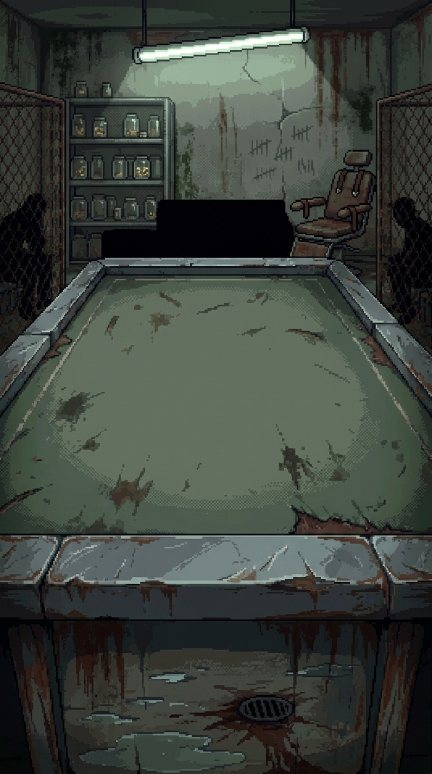
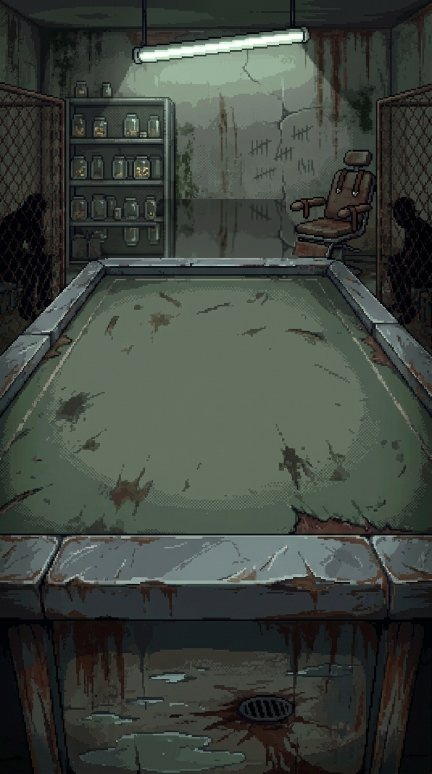
Dirty Deal: dealers stand behind the table in every arena and mood, cellar wall repaint, full-width app, blurred letterbox, fade transitions
Claude-Session: https://claude.ai/code/session_01KMoF4bVcjiTSZnB8k8vwUa

Changed region(s): [[0.2106, 0.2481, 0.6921, 0.3411]]

diff --git a/dirtydeal/index.html b/dirtydeal/index.html
@@ -33,8 +33,10 @@ body{margin:0;-webkit-text-size-adjust:100%;overscroll-behavior:none;position:fi
 html,body{height:100%}
 body{background:var(--ink);color:var(--paper);font-family:var(--body);overflow:hidden;user-select:none;-webkit-user-select:none;-webkit-tap-highlight-color:transparent}
 img{image-rendering:pixelated;-webkit-user-drag:none;pointer-events:none}
-.wrap{height:100%;display:grid;place-items:center;padding-block:8px;padding-left:max(16px,env(safe-area-inset-left,0px));padding-right:max(16px,env(safe-area-inset-right,0px))}
-.stage{position:relative;height:100%;max-height:calc((100vw - 32px)*1376/768);aspect-ratio:768/1376;max-width:100%;container-type:size;overflow:hidden;
+body::before{content:"";position:fixed;inset:-60px;z-index:-1;background:var(--bgimg,none) center/cover no-repeat;filter:blur(22px) brightness(.3) saturate(.75);transition:background-image .4s}
+#fade{position:absolute;inset:0;z-index:58;background:#000;pointer-events:none;opacity:0}
+.wrap{height:100%;display:grid;place-items:center;padding:0 env(safe-area-inset-right,0px) 0 env(safe-area-inset-left,0px)}
+.stage{position:relative;height:100%;max-height:calc(100vw*1376/768);aspect-ratio:768/1376;max-width:100%;container-type:size;overflow:hidden;
   background:#0d0b09;image-rendering:pixelated;--tilt:38deg;--r1w:18%;--r1t:35%;--r1a:20.8%;--r1b:41%;--r1c:61.2%;--r0w:21.5%;--r0t:47.5%;--r0a:13.9%;--r0b:39.25%;--r0c:64.6%}
 #bg{position:absolute;z-index:0;left:0;width:100%;top:0;height:100%;background:url(assets/table.jpg) center/100% 100% no-repeat}
 #bg::after{content:"";position:absolute;left:0;right:0;top:100%;height:12%;background:linear-gradient(#0d0b09,#0d0b09)}
@@ -454,7 +456,7 @@ button{font-family:var(--display);cursor:pointer;background:none;border:0;paddin
 .b img{width:4.6cqw}
 .b.y{background:#f0b92c;color:#2a1d00;text-shadow:none}.b.g{background:#4f9a32}.b.r{background:#b8321f}.b.p{background:#7c4fb0}
 .b:disabled{filter:grayscale(.85) brightness(.55);cursor:default}
-.loot{display:grid;grid-template-columns:repeat(4,minmax(0,1fr));gap:3cqw;margin:3cqw 0}
+.loot{display:flex;flex-wrap:wrap;justify-content:center;gap:3cqw;margin:3cqw 0}.loot>div{width:calc(25% - 2.25cqw)}
 .loot>div{position:relative;opacity:0;animation:lootin .45s cubic-bezier(.2,1.4,.4,1) forwards}
 .loot .q{position:absolute;right:-4%;bottom:-4%;font-family:var(--display);font-weight:700;font-size:3.4cqw;color:#fff;background:#3c7a24;border:2px solid #000;padding:0 1cqw}
 @keyframes lootin{from{opacity:0;transform:translateY(30%) scale(.5)}to{opacity:1;transform:none}}
@@ -542,7 +544,7 @@ button{font-family:var(--display);cursor:pointer;background:none;border:0;paddin
 </head>
 <body>
 <div class="wrap">
-<div class="stage a1" id="stage">
+<div class="stage a1" id="stage"><div id="fade"></div>
   <div id="bg"><div id="amb"></div></div>
   <div id="lowhp"></div>
   <img class="abs" id="eicon" src="assets/u_skull.png" alt="">
@@ -698,8 +700,11 @@ let infoT=null;function setInfo(html,quiet){$('infotext').innerHTML=html;if(quie
 /* dealer moods: 0 idle, 1 laugh, 2 angry, 3 shocked */
 let moodT=null;
 let DPRE='dealer';
-function mood(m,ms){const el=$('dealer');el.src=`assets/${DPRE}${m}.png`;el.classList.add('bump');setTimeout(()=>el.classList.remove('bump'),200);
-  clearTimeout(moodT);if(ms)moodT=setTimeout(()=>{el.src=`assets/${DPRE}0.png`},ms)}
+/* some mood sprites were drawn closer to the camera: scale/shift them so the body always ends behind the far rail */
+const DFIX={dealer1:[.78,-12],dealer2:[.8,-12],dealer3:[.77,-12]};
+function dealerImg(m){const el=$('dealer'),k=DPRE+m,f=DFIX[k];el.src=`assets/${k}.png`;el.style.scale=f?String(f[0]):'';el.style.translate=f?`0 ${f[1]}%`:''}
+function mood(m,ms){const el=$('dealer');dealerImg(m);el.classList.add('bump');setTimeout(()=>el.classList.remove('bump'),200);
+  clearTimeout(moodT);if(ms)moodT=setTimeout(()=>dealerImg(0),ms)}
 
 /* smoke puffs */
 document.querySelectorAll('.smoke').forEach(e=>{for(let i=0;i<8;i++){const p=document.createElement('span');const d=3.2+Math.random()*1.6;
@@ -711,17 +716,19 @@ try{const s=JSON.parse(localStorage.getItem('dd-deck')||'null');if(Array.isArray
 if(!deck.length)deck=['gremlin','fingers','ratking','sandwich','grandma','toilet'];
 function mk(id,side){const d=C[id],l=d.token?1:side===0?P.cards[id].l:(S&&S.elvl)||1,st=statsFor(id,l);const o={uid:++uid,id,side,lvl:l,atk:st.atk,hp:st.hp,poison:0,stuck:0,fresh:true,hidden:true};if(side===1&&S&&S.arena===3&&!d.spell)o.hp+=1;return o}
 
-$('again').onclick=()=>{$('endScreen').hidden=true;newMatch()};
-$('edit').onclick=()=>{$('endScreen').hidden=true;openMenu(2)};
+async function fadeTo(fn){const f=$('fade');await f.animate([{opacity:0},{opacity:1}],{duration:170,fill:'forwards'}).finished.catch(()=>{});fn();await sleepRaw(60);f.animate([{opacity:1},{opacity:0}],{duration:280,fill:'forwards'})}
+const sleepRaw=ms=>new Promise(r=>setTimeout(r,ms));
+$('again').onclick=()=>fadeTo(()=>{$('endScreen').hidden=true;newMatch()});
+$('edit').onclick=()=>fadeTo(()=>{$('endScreen').hidden=true;openMenu(2)});
 
 /* ---------- profile ---------- */
 const ARENAS=[
  {t:0,n:'THE BACK ROOM',who:'The Dealer',pre:'dealer',bg:'table.jpg',tw:'',g:{tilt:38,shift:0,r1w:18,r1t:35,r1:[20.8,41,61.2],r0w:21.5,r0t:47.5,r0:[13.9,39.25,64.6],dt:12.6,dh:23.8,gl:[22.1,13.8]}},
- {t:100,n:'THE DRAIN',who:'The Croc',pre:'d2_',bg:'table2.jpg',tw:'Poison lasts 1 turn longer down here.',g:{tilt:38,shift:0,r1w:18,r1t:35,r1:[20.8,41,61.2],r0w:21.5,r0t:47.5,r0:[13.9,39.25,64.6],dt:12.4,dh:23.8,gl:[14,24]}},
- {t:250,n:'THE DEBT CELLAR',who:'The Collector',pre:'d3_',bg:'table3.jpg',tw:'The light shorts out: a random card may take 3.',g:{tilt:38,shift:0,r1w:18,r1t:35,r1:[20.8,41,61.2],r0w:21.5,r0t:47.5,r0:[13.9,39.25,64.6],dt:11.6,dh:24.6,gl:[50,8]}},
+ {t:100,n:'THE DRAIN',who:'The Croc',pre:'d2_',bg:'table2.jpg',tw:'Poison lasts 1 turn longer down here.',g:{tilt:38,shift:0,r1w:18,r1t:35,r1:[20.8,41,61.2],r0w:21.5,r0t:47.5,r0:[13.9,39.25,64.6],dt:9.5,dh:23.8,gl:[14,24]}},
+ {t:250,n:'THE DEBT CELLAR',who:'The Collector',pre:'d3_',bg:'table3.jpg',tw:'The light shorts out: a random card may take 3.',g:{tilt:38,shift:0,r1w:18,r1t:35,r1:[20.8,41,61.2],r0w:21.5,r0t:47.5,r0:[13.9,39.25,64.6],dt:8.65,dh:24.6,gl:[50,8]}},
  {t:500,n:'THE PRIVATE WARD',who:'The Owner',pre:'d4_',bg:'table4.jpg',tw:"The Owner's cards start with +1 shield.",g:{tilt:44,shift:0,r1w:14,r1t:39.4,r1:[27.9,43,58.1],r0w:18,r0t:50.2,r0:[21.2,41,60.8],dt:16.4,dh:22,gl:[51,24]}},
- {t:750,n:'THE SLAUGHTERHOUSE',who:'The Butcher',pre:'d5_',bg:'table5.jpg',tw:'Every card that dies deals 1 damage to its owner.',g:{tilt:38,shift:0,r1w:18,r1t:35,r1:[20.8,41,61.2],r0w:21.5,r0t:47.5,r0:[13.9,39.25,64.6],dt:10.6,dh:26,gl:[50,7]}},
- {t:1000,n:'THE FUNHOUSE',who:'The Ringmaster',pre:'d6_',bg:'table6.jpg',tw:'Your cards get shuffled into random slots every round.',g:{tilt:38,shift:0,r1w:18,r1t:35,r1:[20.8,41,61.2],r0w:21.5,r0t:47.5,r0:[13.9,39.25,64.6],dt:11.2,dh:25.4,gl:[50,6]}}];
+ {t:750,n:'THE SLAUGHTERHOUSE',who:'The Butcher',pre:'d5_',bg:'table5.jpg',tw:'Every card that dies deals 1 damage to its owner.',g:{tilt:38,shift:0,r1w:18,r1t:35,r1:[20.8,41,61.2],r0w:21.5,r0t:47.5,r0:[13.9,39.25,64.6],dt:9.5,dh:26,gl:[50,7]}},
+ {t:1000,n:'THE FUNHOUSE',who:'The Ringmaster',pre:'d6_',bg:'table6.jpg',tw:'Your cards get shuffled into random slots every round.',g:{tilt:38,shift:0,r1w:18,r1t:35,r1:[20.8,41,61.2],r0w:21.5,r0t:47.5,r0:[13.9,39.25,64.6],dt:9.95,dh:25.4,gl:[50,6]}}];
 let TILT=38;
 function applyArena(k){
   const A=ARENAS[k],g=A.g,st=$('stage');
@@ -733,7 +740,7 @@ function applyArena(k){
   const dw=$('dealerWrap');dw.style.top=g.dt+'%';dw.style.height=g.dh+'%';$('say').style.top=(g.dt-1.5)+'%';
   const gl=$('glow');gl.style.left=g.gl[0]+'%';gl.style.top=g.gl[1]+'%';
   $('flick').style.background=`radial-gradient(ellipse at ${g.gl[0]}% ${g.gl[1]}%,rgba(0,0,0,.2),rgba(0,0,0,.55))`;
-  DPRE=A.pre;$('dealer').src=`assets/${DPRE}0.png`;
+  DPRE=A.pre;dealerImg(0);if($('menu').hidden)setBg(A.bg);
   AMB.set(k);
 }
 const UP={1:{n:2,g:50},2:{n:4,g:150},3:{n:10,g:400},4:{n:20,g:1000}};
@@ -891,7 +898,9 @@ function arenaPop(k){const A=ARENAS[k],cards=ALL.filter(id=>C[id].u===k);SND.sfx
   pop(`<h3>NEW ARENA UNLOCKED</h3><div class="anew"><div class="th" style="background-image:url(assets/${A.bg})"></div><b>${A.n}</b><span>VS ${A.who.toUpperCase()}</span>${A.tw?`<em>${A.tw}</em>`:''}</div>
    ${cards.length?`<p style="text-align:center;margin-top:2cqw">New cards:</p><div class="un anu">${cards.map(id=>cardHTML(id,null,1)).join('')}</div>`:''}<div class="btns"><button class="b y" id="anOk" type="button">ENTER</button></div>`,true);
   $('anOk').onclick=()=>{closePop();setTab(2)}}
-function setTab(t){tab=t;$('track').style.transform=`translateX(${-t*20}%)`;document.querySelectorAll('.tab').forEach(b=>b.classList.toggle('on',+b.dataset.t===t));if(t!==1)endSwap()}
+const BGS=['shop.jpg','deckbg.jpg','alley.jpg','alley.jpg','alley.jpg'];
+const setBg=f=>document.documentElement.style.setProperty('--bgimg',`url(assets/${f})`);
+function setTab(t){tab=t;if(!$('menu').hidden)setBg(BGS[t]);$('track').style.transform=`translateX(${-t*20}%)`;document.querySelectorAll('.tab').forEach(b=>b.classList.toggle('on',+b.dataset.t===t));if(t!==1)endSwap()}
 document.querySelectorAll('.tab').forEach(b=>b.onclick=()=>setTab(+b.dataset.t));
 (function(){let sx=0,sy=0,on=false;const tr=$('track');
   tr.addEventListener('pointerdown',e=>{sx=e.clientX;sy=e.clientY;on=true});
@@ -980,7 +989,7 @@ function openCase(i){
    <div class="btns"><button class="b y" id="cOk" type="button">COLLECT</button></div>`,true);
   $('cOk').onclick=()=>{closePop();renderMenu()};
 }
-$('battleBtn').onclick=()=>{if(P.sel>P.best)return;closePop();$('menu').hidden=true;newMatch()};
+$('battleBtn').onclick=()=>{if(P.sel>P.best)return;closePop();fadeTo(()=>{$('menu').hidden=true;setBg(ARENAS[P.sel].bg);newMatch()})};
 let lvlTaps=0;$('pLvl').onclick=()=>{if(++lvlTaps>=5){lvlTaps=0;P.trophies+=100;const b=P.best;P.best=Math.max(P.best,arenaOf(P.trophies));if(P.best>b)P.sel=P.best;saveP();toast('TEST: +100 TROPHIES');renderMenu()}};
 
 /* ---------- cards tab ---------- */
@@ -1201,7 +1210,7 @@ const AMB=(()=>{
     const gl=$('glow');gl.classList.toggle('sway',k===2);
     if(k===0){flies(22.5,13.5,2,14);
       every(15000,ratRun,9000)}
-    if(k===1){el('eyes',51,12.6);const e2=el('eyes e2',57,14);e2.style.width='1.4%';
+    if(k===1){el('eyes',51,9.8);const e2=el('eyes e2',57,11.1);e2.style.width='1.4%';
       const L=el('lamp',7,-3,'<img src="assets/lamp2.png" alt=""><i></i>');
       flies(55,10,3,12,$('dealerWrap'));
       const src=[[38,10,30.5],[63,10,30],[93,14,37.5],[3,20,36]];
@@ -1785,7 +1794,7 @@ function drawPause(){
 }
 function quitMatch(){
   S.dead=true;PAUSED=false;$('pauseScr').hidden=true;$('intro').hidden=true;$('say').classList.remove('on');$('tip').hidden=true;introTok++;
-  document.getAnimations().forEach(a=>{try{a.cancel()}catch(_){}});
+  document.getAnimations().forEach(a=>{if(window.CSSAnimation&&a instanceof CSSAnimation||window.CSSTransition&&a instanceof CSSTransition||a.effect&&a.effect.target&&a.effect.target.id==='fade')return;try{a.cancel()}catch(_){}});
   document.querySelectorAll('.fly,.flt,.vfx,.dust').forEach(e=>e.remove());$('croupier').hidden=true;
   P.trophies=Math.max(0,P.trophies-15);addXP(2);saveP();
   S.phase='idle';openMenu(2);setTimeout(()=>toast('YOU WALKED AWAY · -15 TROPHIES'),200);

diff --git a/dirtydeal/sw.js b/dirtydeal/sw.js
@@ -1,5 +1,5 @@
 /* Dirty Deal offline cache. A new upload changes VERSION, so phones fetch the new build. */
-const VERSION='dd-d8fb0e0cb9';
+const VERSION='dd-a21ab51865';
 const FILES=["./", "assets/a_paper.png", "assets/a_rat.png", "assets/alley.jpg", "assets/back.png", "assets/c_ashtray.png", "assets/c_bellhop.png", "assets/c_blackhole.png", "assets/c_bucket.png", "assets/c_clown.png", "assets/c_coinflip.png", "assets/c_dice.png", "assets/c_eviction.png", "assets/c_fingers.png", "assets/c_foodpois.png", "assets/c_gator.png", "assets/c_goblin.png", "assets/c_golem.png", "assets/c_grandma.png", "assets/c_gremlin.png", "assets/c_hydra.png", "assets/c_jukebox.png", "assets/c_karaoke.png", "assets/c_lastcall.png", "assets/c_leech.png", "assets/c_mafioso.png", "assets/c_mannequin.png", "assets/c_mattress.png", "assets/c_molar.png", "assets/c_pickled.png", "assets/c_pigeon.png", "assets/c_rabbit.png", "assets/c_rat.png", "assets/c_ratking.png", "assets/c_roach.png", "assets/c_sandwich.png", "assets/c_smell.png", "assets/c_toenail.png", "assets/c_toilet.png", "assets/c_vending.png", "assets/case0.png", "assets/case0o.png", "assets/case1.png", "assets/case1o.png", "assets/case2.png", "assets/case2o.png", "assets/case3.png", "assets/case3o.png", "assets/chip_b.png", "assets/chip_g.png", "assets/chip_k.png", "assets/chip_r.png", "assets/chips.png", "assets/coins.png", "assets/d2_0.png", "assets/d2_1.png", "assets/d2_2.png", "assets/d2_3.png", "assets/d3_0.png", "assets/d3_1.png", "assets/d3_2.png", "assets/d3_3.png", "assets/d4_0.png", "assets/d4_1.png", "assets/d4_2.png", "assets/d4_3.png", "assets/d5_0.png", "assets/d5_1.png", "assets/d5_2.png", "assets/d5_3.png", "assets/d6_0.png", "assets/d6_1.png", "assets/d6_2.png", "assets/d6_3.png", "assets/dealer0.png", "assets/dealer1.png", "assets/dealer2.png", "assets/dealer3.png", "assets/deckbg.jpg", "assets/f_common.png", "assets/f_legend.png", "assets/f_spell.png", "assets/f_token.png", "assets/hand.png", "assets/i_events.png", "assets/i_friends.png", "assets/i_gang.png", "assets/i_road.png", "assets/i_rules.png", "assets/i_settings.png", "assets/icon.jpg", "assets/lamp2.png", "assets/logo.png", "assets/lose.jpg", "assets/m_a1.mp3", "assets/m_a2.mp3", "assets/m_a3.mp3", "assets/m_a4.mp3", "assets/m_btn_battle.png", "assets/m_btn_battle_d.png", "assets/m_btn_battle_ru.png", "assets/m_btn_upgrade.png", "assets/m_h_battle.png", "assets/m_h_cards.png", "assets/m_h_shop.png", "assets/m_i_chips.png", "assets/m_i_clock.png", "assets/m_i_dot.png", "assets/m_i_level.png", "assets/m_i_trophy.png", "assets/m_i_wings.png", "assets/m_i_x.png", "assets/m_menu.mp3", "assets/m_n_battle.png", "assets/m_n_battle2.png", "assets/m_n_cards.png", "assets/m_n_shop.png", "assets/m_navbar.png", "assets/m_panel.png", "assets/m_topbar.png", "assets/m_win.mp3", "assets/pointer.png", "assets/r_rim.png", "assets/r_roach.png", "assets/r_table.jpg", "assets/r_tur.png", "assets/shop.jpg", "assets/slot0.png", "assets/slot1.png", "assets/slot2.png", "assets/sym.png", "assets/table.jpg", "assets/table2.jpg", "assets/table3.jpg", "assets/table4.jpg", "assets/table5.jpg", "assets/table6.jpg", "assets/u_armor.png", "assets/u_badge.png", "assets/u_bar_e.png", "assets/u_bar_g.png", "assets/u_bar_r.png", "assets/u_coin.png", "assets/u_fight.png", "assets/u_fight_d.png", "assets/u_fight_d_ru.png", "assets/u_fight_ru.png", "assets/u_fist.png", "assets/u_gum.png", "assets/u_lock.png", "assets/u_ring.png", "assets/u_shield.png", "assets/u_sit.png", "assets/u_sit_d.png", "assets/u_sit_ru.png", "assets/u_skull.png", "assets/v_boom.png", "assets/v_coins.png", "assets/v_dust.png", "assets/v_gum.png", "assets/v_hole.png", "assets/v_honk.png", "assets/v_poison.png", "assets/v_shatter.png", "assets/v_spark.png", "assets/wheel.png", "assets/win.jpg", "fonts/pixelify-sans-cyrillic-400-normal.woff2", "fonts/pixelify-sans-cyrillic-700-normal.woff2", "fonts/silkscreen-latin-400-normal.woff2", "fonts/silkscreen-latin-700-normal.woff2", "fonts/vt323-latin-400-normal.woff2", "icons/icon-180.png", "icons/icon-192.png", "icons/icon-512.png", "index.html", "manifest.webmanifest"];
 self.addEventListener('install',e=>{e.waitUntil(caches.open(VERSION).then(c=>c.addAll(FILES)).then(()=>self.skipWaiting()))});
 self.addEventListener('activate',e=>{e.waitUntil(caches.keys().then(k=>Promise.all(k.filter(x=>x!==VERSION).map(x=>caches.delete(x)))).then(()=>self.clients.claim()))});
